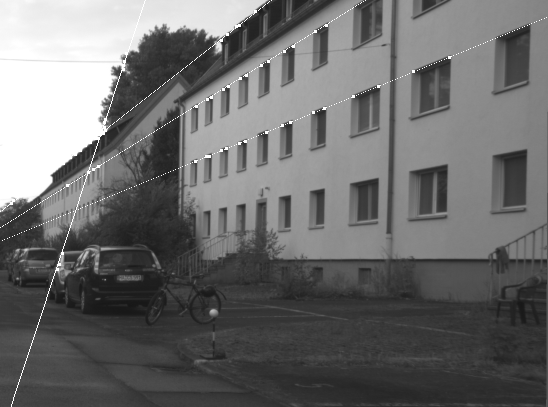
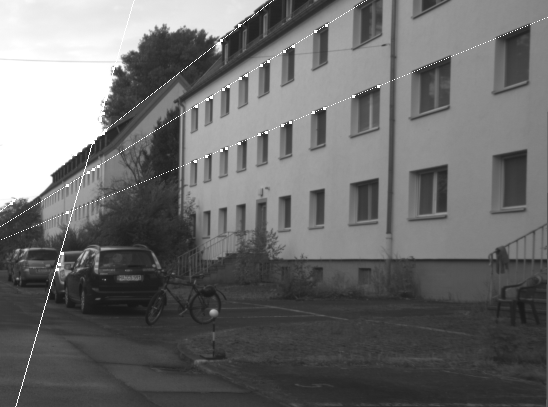
removed small value check in hough

diff --git a/hw2/hough.py b/hw2/hough.py
@@ -12,6 +12,8 @@ def hough(image, x_buckets, y_buckets):
     max_rho = (image.shape[0] ** 2 + image.shape[1] ** 2) ** (1/2)
     # * 2 since we need to add all values by x_buckets//2 
     rho_intervals = max_rho * 2 / (x_buckets - 1) 
+    ret_image = numpy.copy(image)
+    image = ret_image
     points = []
     for i in range(image.shape[0]):
         for j in range(image.shape[1]):
@@ -59,7 +61,7 @@ def drawPerpendicular(image,rho,theta, points,max_value, road):
     sin = numpy.sin(theta)
     cos = numpy.cos(theta)
     # if the cos is small enough just say it is 0 slope
-    if cos != 0 and cos > .000001:
+    if cos != 0 :
         slope = -sin / cos
         intercept = rho / cos
         for i in range(image.shape[0]):
@@ -82,7 +84,7 @@ def drawPerpendicular(image,rho,theta, points,max_value, road):
                 road[int(x)][i] = 255
         # put a 3x3 box around a point on the line if it is within bounds
         for point in points:
-            if point[0]>=1 and point[0]<=image.shape[1]-1 and point[1]>=1 and image.shape[0]-1:
+            if point[0]>=1 and point[0]< image.shape[1]-1 and point[1]>=1 and point[1] < image.shape[0]-1:
                 if abs(point[0] - int(x)) <=2:
                     image[-1+point[0]:point[0]+2,-1+point[1]:point[1]+2] = max_value
                     road[-1+point[0]:point[0]+2,-1+point[1]:point[1]+2] = 255

diff --git a/hw2/ransac.py b/hw2/ransac.py
@@ -10,8 +10,8 @@ def ransac(image, threshold, inliers):
     max_value = numpy.amax(image)
     # remove the border since we need to place a
     # 3x3 block around them
-    for i in range(1,x_shape-1):
-        for j in range(1,y_shape-1):
+    for i in range(x_shape):
+        for j in range(y_shape):
             if ret_image[i][j] > 0:
                 points.append([i,j])
     # only for visualization to plot on top of the original image
@@ -60,8 +60,9 @@ def find_line(image,points, threshold, inliers, max_value, road):
                     
     # remove the points in the target set and highlight the inliers
     for point in removal_set:
-        image[-1+point[0]:point[0]+2, -1+point[1]: point[1] + 2] = max_value
-        road[-1+point[0]:point[0]+2, -1+point[1]: point[1] + 2] = 255
+        if (point[0] >= 1 and point[0] < image.shape[1]-1 and point[1] >= 1 and point[1] < image.shape[0]-1):
+            image[-1+point[0]:point[0]+2, -1+point[1]: point[1] + 2] = max_value
+            road[-1+point[0]:point[0]+2, -1+point[1]: point[1] + 2] = 255
         points.remove(point)
 
     # draw the line
